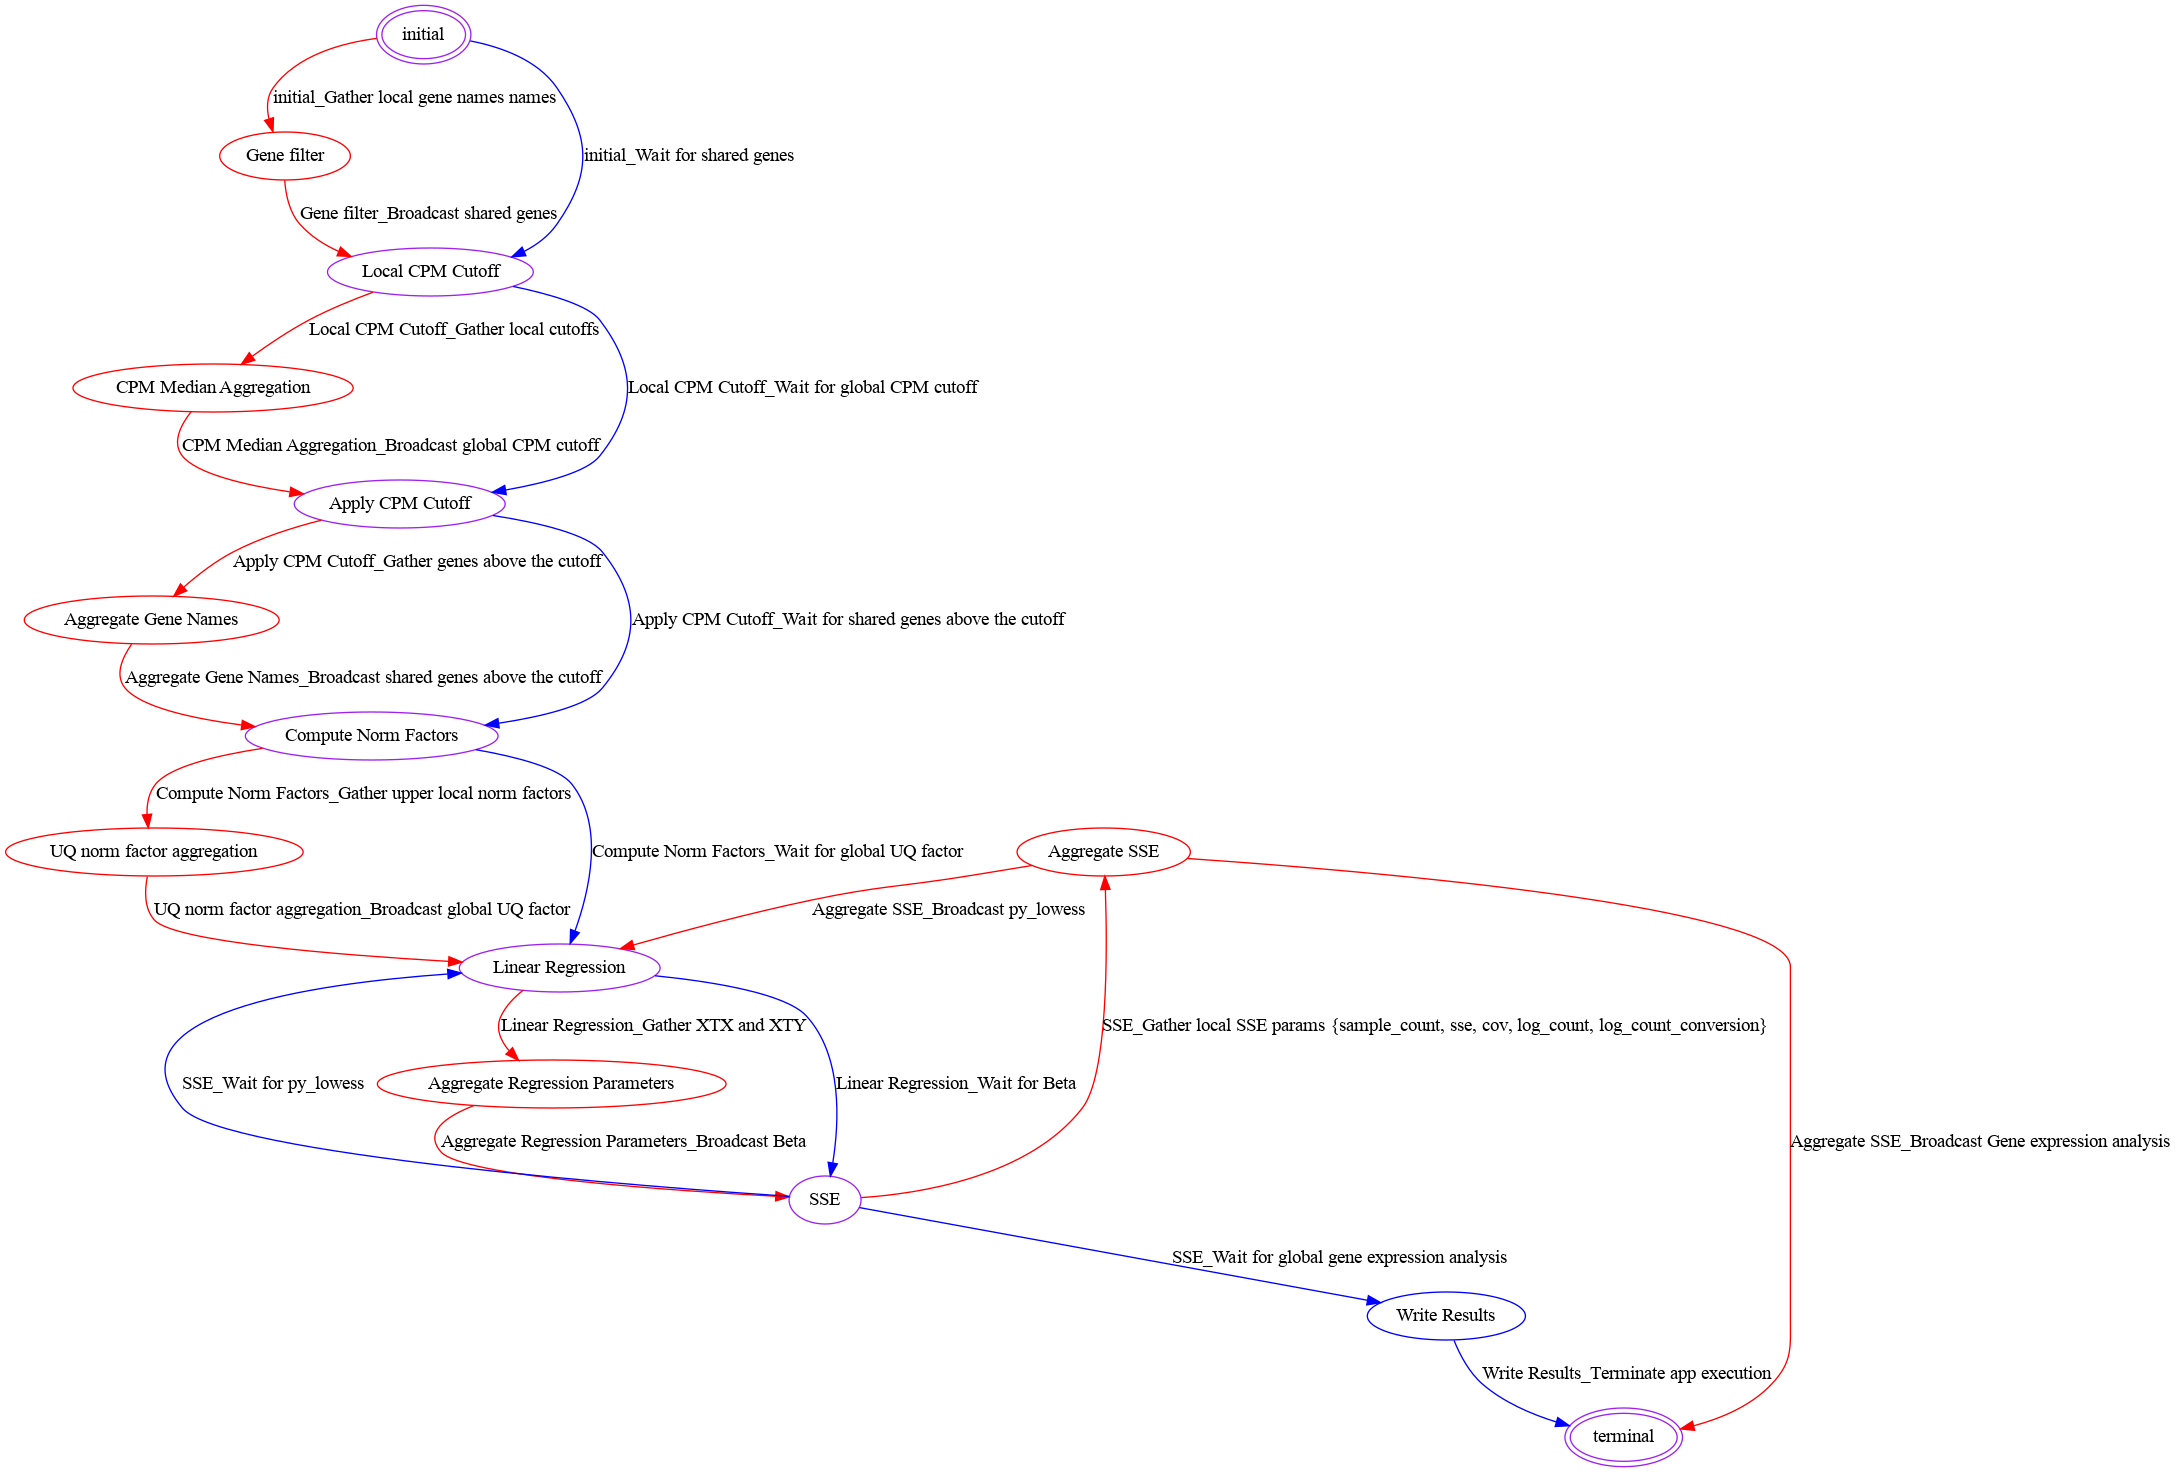
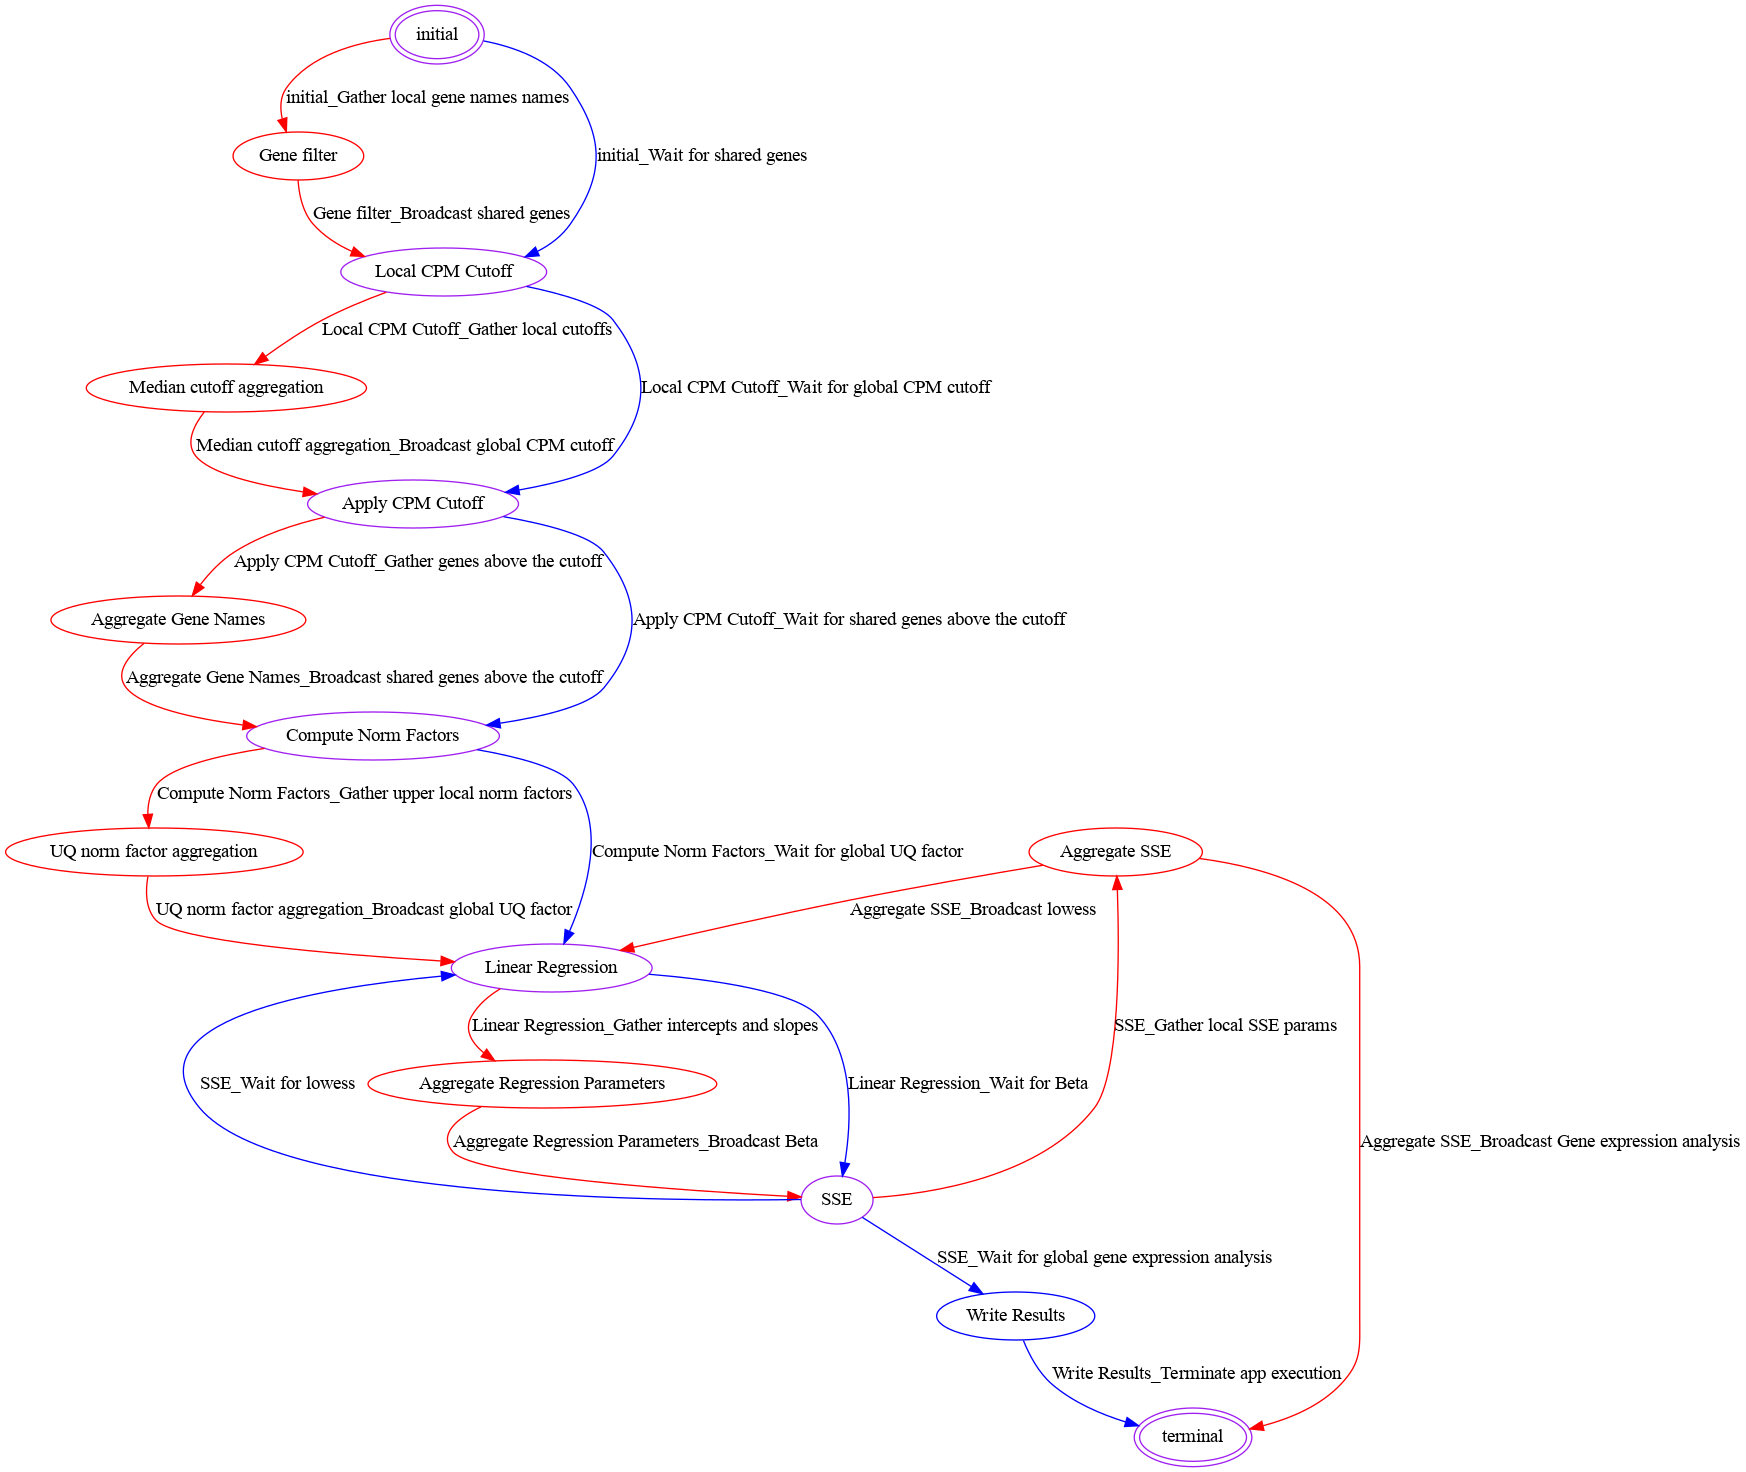
state names updated

Changed region(s): [[0.0, 0.0, 0.8041, 0.8438], [0.5258, 0.8438, 0.8041, 1.0], [0.7732, 0.75, 1.0, 0.7812]]

diff --git a/States/flimma.py b/States/flimma.py
@@ -33,17 +33,17 @@ class C1(GlobalMean):
 @app_state('Local CPM Cutoff', Role.BOTH)
 class B2(CPMCutOff):
     def register(self):
-        self.register_transition('CPM Median Aggregation', Role.COORDINATOR, 'Gather local cutoffs')
+        self.register_transition('Median cutoff aggregation', Role.COORDINATOR, 'Gather local cutoffs')
         self.register_transition('Apply CPM Cutoff', Role.PARTICIPANT, 'Wait for global CPM cutoff')
 
     def run(self) -> str or None:
         super().run()
         if self.is_coordinator:
-            return 'CPM Median Aggregation'
+            return 'Median cutoff aggregation'
         return 'Apply CPM Cutoff'
 
 
-@app_state('CPM Median Aggregation', Role.COORDINATOR)
+@app_state('Median cutoff aggregation', Role.COORDINATOR)
 class C2(CutOffAggregation):
     def register(self):
         self.register_transition('Apply CPM Cutoff', Role.COORDINATOR, 'Broadcast global CPM cutoff')
@@ -105,7 +105,7 @@ class B5(LinearRegression):
         super().__init__()
 
     def register(self):
-        self.register_transition('Aggregate Regression Parameters', Role.COORDINATOR, "Gather XTX and XTY")
+        self.register_transition('Aggregate Regression Parameters', Role.COORDINATOR, "Gather intercepts and slopes")
         self.register_transition('SSE', Role.PARTICIPANT, "Wait for Beta")
 
     def run(self) -> str or None:
@@ -131,8 +131,8 @@ class B6(SSE):
         super().__init__()
 
     def register(self):
-        self.register_transition('Aggregate SSE', Role.COORDINATOR, "Gather local SSE params {sample_count, sse, cov, log_count, log_count_conversion}")
-        self.register_transition('Linear Regression', Role.PARTICIPANT, "Wait for py_lowess")
+        self.register_transition('Aggregate SSE', Role.COORDINATOR, "Gather local SSE params")
+        self.register_transition('Linear Regression', Role.PARTICIPANT, "Wait for lowess")
         self.register_transition('Write Results', Role.PARTICIPANT, "Wait for global gene expression analysis")
 
     def run(self) -> str or None:
@@ -152,7 +152,7 @@ class C6(AggregateSSE):
         super().__init__()
 
     def register(self):
-        self.register_transition('Linear Regression', Role.COORDINATOR, "Broadcast py_lowess")
+        self.register_transition('Linear Regression', Role.COORDINATOR, "Broadcast lowess")
         self.register_transition('terminal', Role.COORDINATOR, "Broadcast Gene expression analysis")
 
     def run(self) -> str or None:
